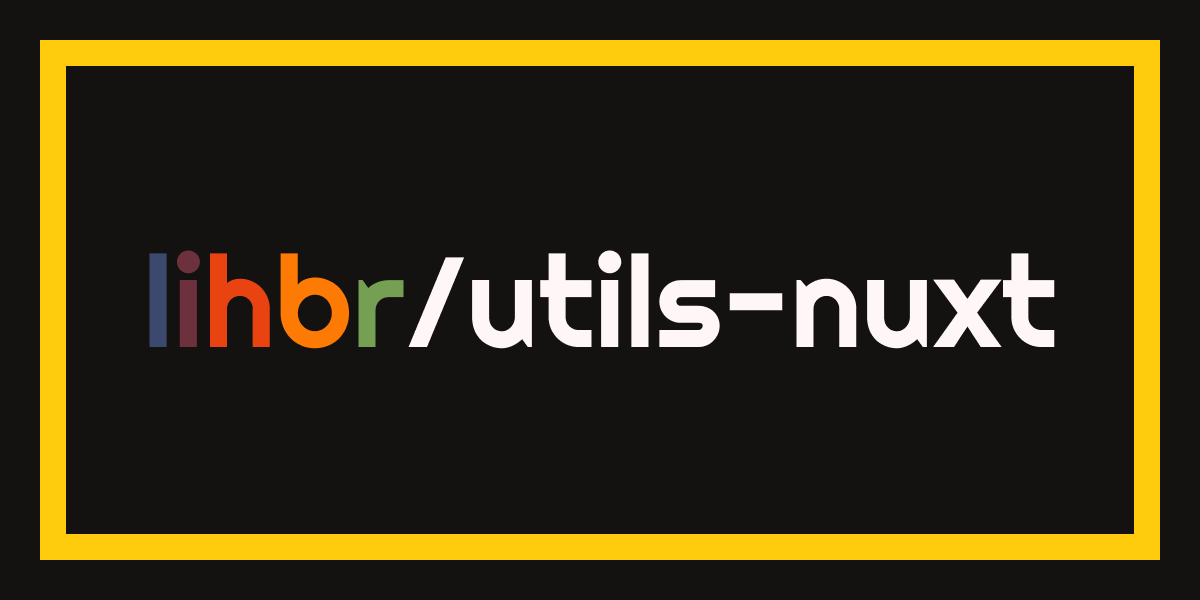
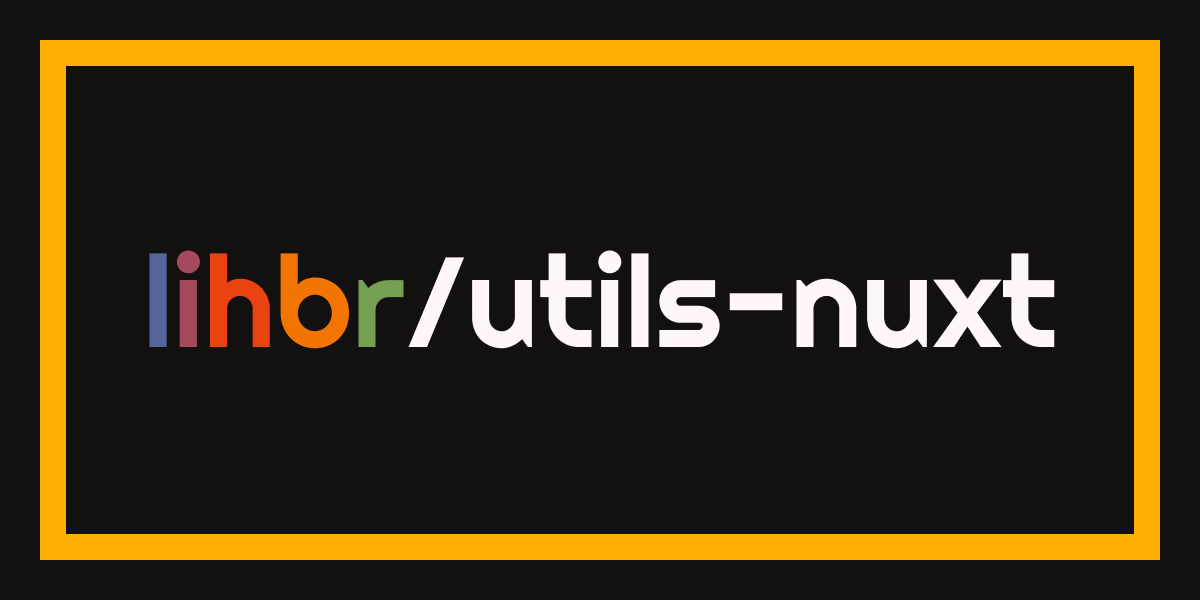
docs(misc): update theme

Changed region(s): [[0.0308, 0.06, 0.9867, 0.96], [0.1233, 0.42, 0.185, 0.6]]

diff --git a/docs/assets/css/prism.css b/docs/assets/css/prism.css
@@ -5,8 +5,8 @@ pre[class*="language-"] {
   word-spacing: normal;
   word-break: normal;
   word-wrap: normal;
-  color: #c3cee3;
-  background: #263238;
+  color: #fff7f7;
+  background: #292222;
   font-family: Roboto Mono, monospace;
   font-size: 1em;
   line-height: 1.5em;
@@ -25,14 +25,14 @@ code[class*="language-"]::-moz-selection,
 pre[class*="language-"]::-moz-selection,
 code[class*="language-"] ::-moz-selection,
 pre[class*="language-"] ::-moz-selection {
-  background: #363636;
+  background: #292222;
 }
 
 code[class*="language-"]::selection,
 pre[class*="language-"]::selection,
 code[class*="language-"] ::selection,
 pre[class*="language-"] ::selection {
-  background: #363636;
+  background: #292222;
 }
 
 :not(pre) > code[class*="language-"] {
@@ -51,86 +51,68 @@ pre[class*="language-"] {
 .language-css > code,
 .language-sass > code,
 .language-scss > code {
-  color: #fd7b05;
+  color: #f27502;
 }
 
 [class*="language-"] .namespace {
   opacity: 0.7;
 }
 
+/* Theme */
 .token.comment,
 .token.prolog,
 .token.doctype,
 .token.cdata {
-  color: rgba(255, 247, 247, 0.6);
-}
-
-.token.punctuation {
-  color: rgba(254, 204, 13, 0.7);
-}
-
-.token.string {
-  color: #fecc0d;
-}
-
-.namespace {
-  opacity: 0.7;
-}
-
-.token.property,
-.token.tag,
-.token.constant,
-.token.symbol,
-.token.deleted {
-  color: #e84311;
+  color: #806b6b;
 }
 
 .token.boolean,
 .token.number {
-  color: #c37987;
+  color: #c3687c;
+}
+
+.token.property,
+.token.tag,
+.token.symbol,
+.token.deleted,
+.token.operator,
+.token.entity,
+.token.url,
+.language-css .token.string,
+.style .token.string,
+.token.variable,
+.token.atrule,
+.token.class-name,
+.token.keyword {
+  color: #e84311;
+}
+
+.token.constant {
+  color: #ff612f;
+}
+
+.token.parameter {
+  color: #f27502;
+}
+
+.token.string,
+.token.attr-value,
+.token.regex,
+.token.important {
+  color: #ffb005;
+}
+
+.token.punctuation {
+  color: #ffce23;
 }
 
 .token.selector,
 .token.attr-name,
 .token.char,
 .token.builtin,
-.token.inserted {
-  color: #94b877;
-}
-
-.token.operator,
-.token.entity,
-.token.url,
-.language-css .token.string,
-.style .token.string,
-.token.variable {
-  color: #e84311;
-}
-
-.token.attr-value {
-  color: #fecc0d;
-}
-
-.token.atrule,
-.token.class-name {
-  color: #e84311;
-}
-
+.token.inserted,
 .token.function {
-  color: #94b877;
-}
-
-.token.keyword {
-  color: #e84311;
-}
-
-.token.parameter {
-  color: #fd7b05;
-}
-
-.token.regex,
-.token.important {
-  color: #fecc0d;
+  color: #93bd71;
 }
 
 .token.important,

diff --git a/docs/tailwind.config.js b/docs/tailwind.config.js
@@ -6,25 +6,25 @@ module.exports = {
           100: "#FFF2E6",
           200: "#F9D0C4",
           300: "#C5ADB2",
-          400: "#77809A",
+          400: "#7284ba",
           500: "#759F53",
-          600: "#E46F05",
-          700: "#8B280A",
-          800: "#31161C",
-          900: "#121621"
+          600: "#e86b00",
+          700: "#ca2500",
+          800: "#7d2236",
+          900: "#22346a"
         },
         white: "#fffefe",
         gray: {
-          100: "#F6F5F5",
+          100: "#FFF2E6",
           200: "#ECEBEB",
           300: "#D0CDCD",
           400: "#B3AFAF",
           500: "#7B7474",
           600: "#423838",
-          700: "#3B3232",
+          700: "#342b2b",
           // 700: "#282222",
           800: "#1E1919",
-          900: "#141111"
+          900: "#131010"
         }
       }
     }

diff --git a/README.md b/README.md
@@ -1,6 +1,6 @@
 <p align="center">
   <a href="https://utils-nuxt.lihbr.com">
-    <img src="https://images.prismic.io/lihbr/f583056f-b9cd-4734-bbb4-35b212265874_utils-nuxt.png?auto=compress,format" alt="utils-nuxt" height="128" />
+    <img src="docs/static/logo-dark--min.svg" alt="utils-nuxt" height="128" />
   </a>
 </p>
 
